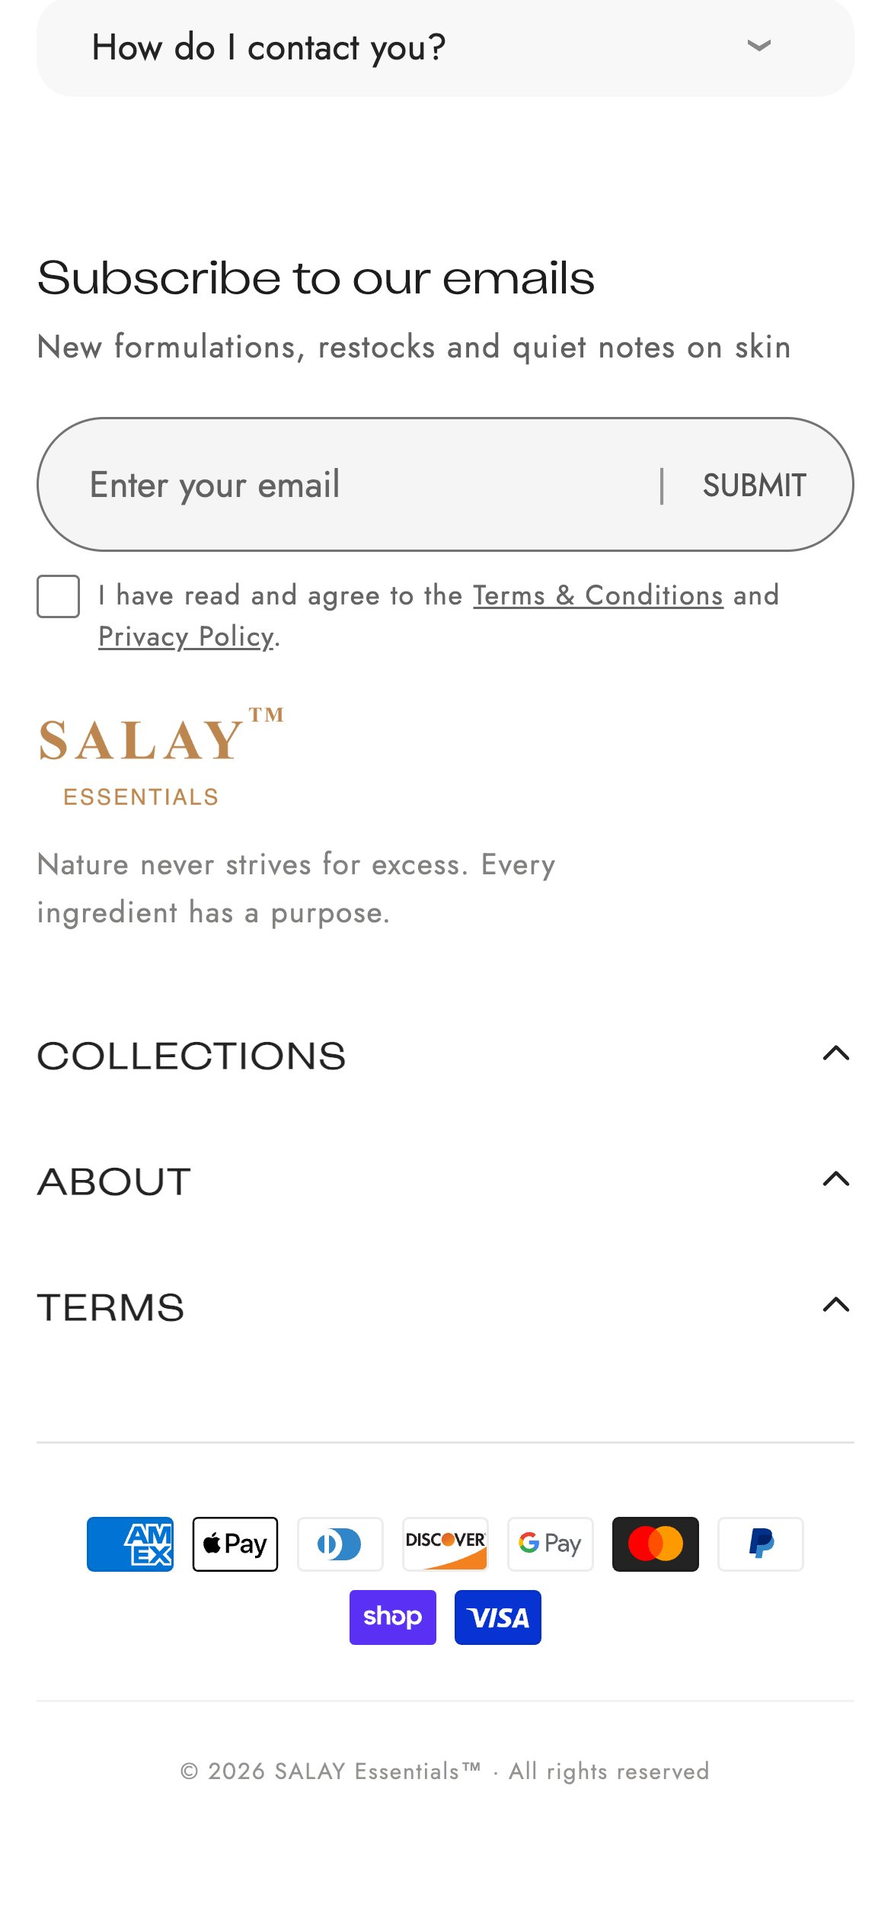
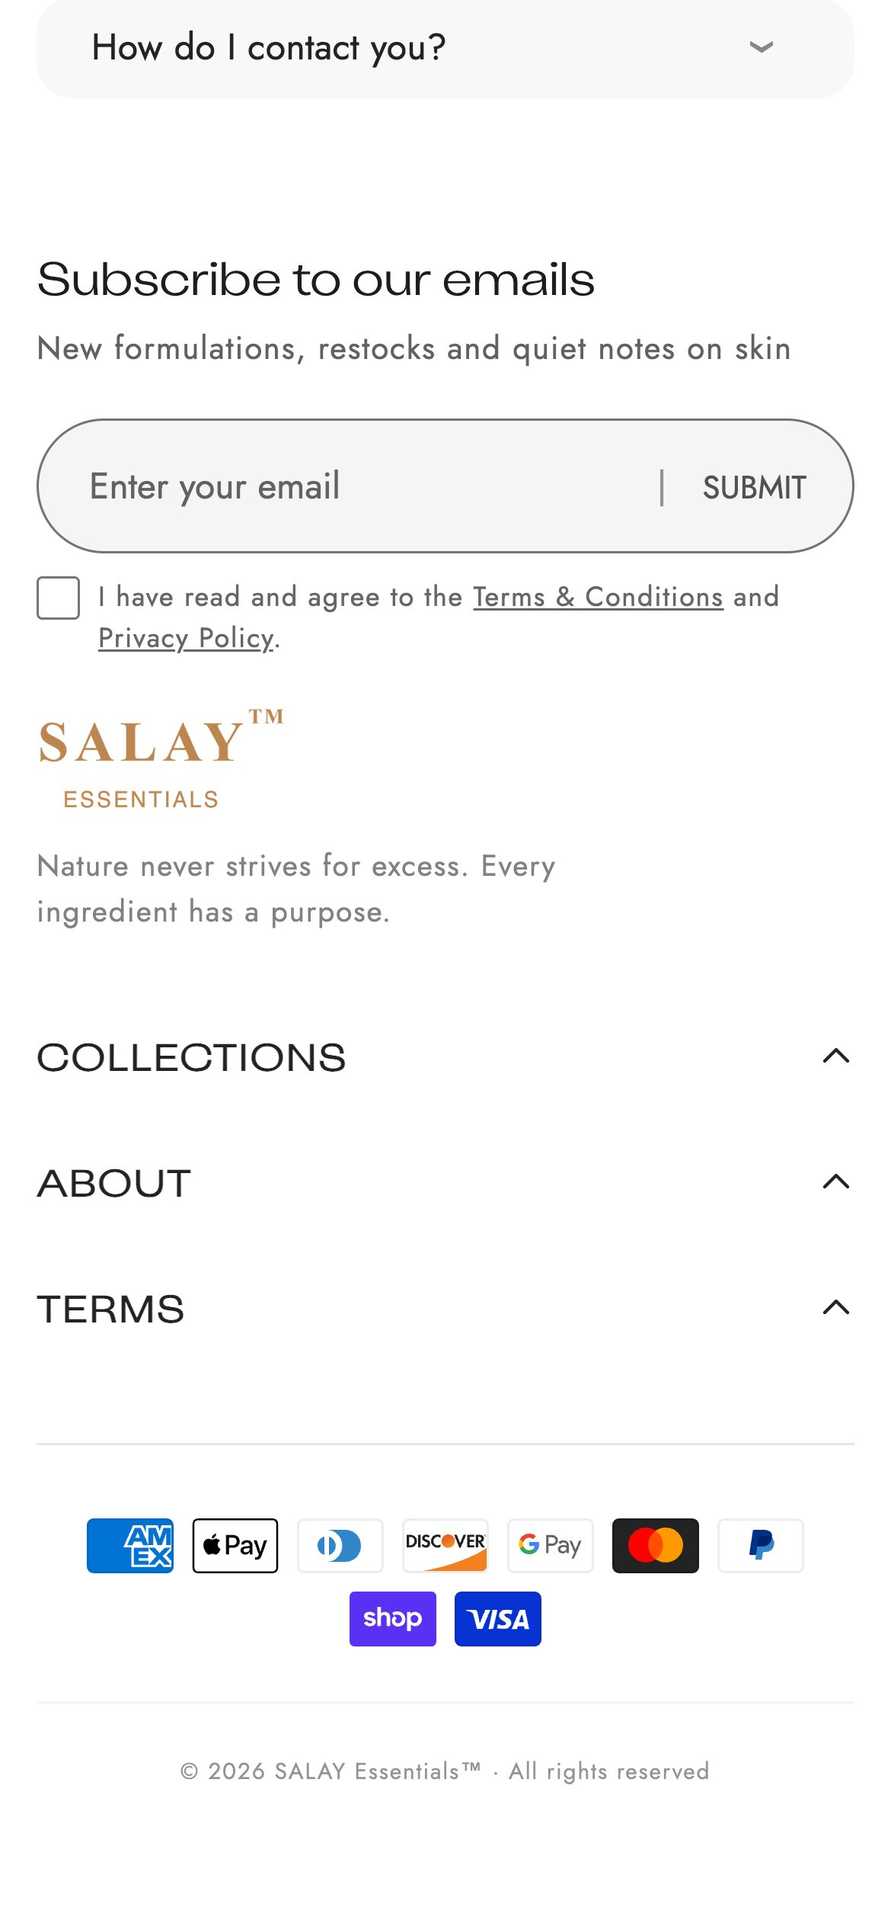
QA: own defects at $0, shipping wording, SMM links

diff --git a/index.html b/index.html
@@ -1199,11 +1199,11 @@ a.irow:hover b{text-decoration:underline}
 <div class="kpis" style="margin-top:34px"><div class="kpi"><b>5</b><span>Before launch</span></div><div class="kpi"><b>5</b><span>Next</span></div><div class="kpi"><b>9</b><span>Small fixes</span></div><div class="kpi"><b>2</b><span>Separate offers</span></div></div> </section>
 <section class="slide divider" id="critical"> <img class="silk" src="img/silk.png" alt=""> <span class="sev crit">Before launch</span> <h2>5 changes to make before the password comes off</h2> </section>
 <section class="slide" id="p-ship"> <img class="silk sm" src="img/silk.png" alt="">
-<div class="shead"><span class="num">01</span><h2><span class="sev crit">Before launch</span>Free shipping starts at $200, while one bottle costs $22–34</h2></div>
+<div class="shead"><span class="num">01</span><h2><span class="sev crit">Before launch</span>Free shipping is set at $200, while one bottle costs $22–34</h2></div>
 <div class="pbody">
 <div class="txt t1"><div class="lbl"><span class="pill">Today</span><svg class="conn" viewBox="0 0 54 12"><path d="M0 6h50M45 1.5 50 6l-5 4.5" fill="none" stroke="#6d6d6d" stroke-width="1.5"/></svg></div><p>After adding Body Oil the cart says “Add $166.00 more for complimentary shipping”. With bottles at $22–34 and sets at $51–67.50, that is six or more bottles, so on most first orders the bar barely moves.</p><p class="fine-note">Checked on the live store behind the launch password, iPhone (390×844), 9 Oct 2026. · <a href="https://salaycare.com/products/body-oil" target="_blank" rel="noopener">open the page ↗</a></p></div>
 <div class="v1"><div><div class="phone"><div class="screen"><div class="island"></div><div class="sbar"><span>9:41</span><svg viewBox="0 0 24 11"><rect x=".5" y=".5" width="20" height="10" rx="3" fill="none" stroke="#111"/><rect x="2" y="2" width="16" height="7" rx="1.5" fill="#111"/><rect x="21.5" y="3.5" width="1.8" height="4" rx=".9" fill="#111"/></svg></div><div class="view"><img class="shot" src="img/now-ship-m.jpg" alt=""></div><div class="url"><span>salaycare.com</span></div></div></div><div class="cap">Today — $166 to go after one bottle</div></div></div>
-<div class="txt t2"><div class="lbl"><span class="pill">We propose</span><svg class="conn" viewBox="0 0 54 12"><path d="M0 6h50M45 1.5 50 6l-5 4.5" fill="none" stroke="#6d6d6d" stroke-width="1.5"/></svg></div><p>Lower the free-shipping line to an amount a first order can reach — for example $70, any set plus one oil — and use the same figure in the cart bar, the announcement and the product page.</p><p>On the right, the same cart with a $70 line.</p></div>
+<div class="txt t2"><div class="lbl"><span class="pill">We propose</span><svg class="conn" viewBox="0 0 54 12"><path d="M0 6h50M45 1.5 50 6l-5 4.5" fill="none" stroke="#6d6d6d" stroke-width="1.5"/></svg></div><p>You set the $200 line before prices changed; we suggest testing a lower one a first order can reach — for example $70, any set plus one oil — in the cart bar, the announcement and the product page.</p><p>On the right, the same cart with a $70 line.</p></div>
 <div class="v2"><div><div class="phone"><div class="screen"><div class="island"></div><div class="sbar"><span>9:41</span><svg viewBox="0 0 24 11"><rect x=".5" y=".5" width="20" height="10" rx="3" fill="none" stroke="#111"/><rect x="2" y="2" width="16" height="7" rx="1.5" fill="#111"/><rect x="21.5" y="3.5" width="1.8" height="4" rx=".9" fill="#111"/></svg></div><div class="view"><img class="shot" src="img/fix-ship-m.jpg" alt=""></div><div class="url"><span>salaycare.com</span></div></div></div><div class="cap">The same cart with a $70 line</div></div></div>
 <div class="cardcol"><div class="benefit-top"><span class="pill">Why it pays</span><span class="arrow"><svg width="14" height="16" viewBox="0 0 14 16"><path d="M7 1v13M1.5 8.5 7 14l5.5-5.5" fill="none" stroke="#444" stroke-width="1.6"/></svg></span></div>
 <div class="card"><p>A goal the shopper can reach is a reason to add a second bottle instead of leaving at the shipping cost.</p><div class="stats"><div><b>$166</b><span>still needed after one $34 bottle</span></div><div><b>$25–100</b><span>free-shipping line at 8 of 10 competitors checked</span></div></div><p class="comp">Like at <a href="https://bushbalm.com/products/ingrown-hair-oil" target="_blank" rel="noopener">Bushbalm ↗</a> — free shipping from $50 with a progress bar in the cart; for SALAY a line near $70 matches one set plus one oil.</p></div><div class="ptag"><span>Price</span><b>$40</b><em>2 h &#183; $20/h</em></div></div>
@@ -1345,20 +1345,20 @@ a.irow:hover b{text-decoration:underline}
 <div class="pbody">
 <div class="txt t1"><div class="lbl"><span class="pill">Today</span><svg class="conn" viewBox="0 0 54 12"><path d="M0 6h50M45 1.5 50 6l-5 4.5" fill="none" stroke="#6d6d6d" stroke-width="1.5"/></svg></div><p>Skin Barrier Trio and Hydration Trio both hold Hyaluronic Hydration Serum, Barrier Repair Serum and Overnight Face Oil, both at $52.50. They sit next to each other on Gift Sets with different names.</p><p class="fine-note">Checked on the live store behind the launch password, iPhone (390×844), 9 Oct 2026. · <a href="https://salaycare.com/collections/gift-sets" target="_blank" rel="noopener">open the page ↗</a></p></div>
 <div class="v1"><div><div class="phone"><div class="screen"><div class="island"></div><div class="sbar"><span>9:41</span><svg viewBox="0 0 24 11"><rect x=".5" y=".5" width="20" height="10" rx="3" fill="none" stroke="#111"/><rect x="2" y="2" width="16" height="7" rx="1.5" fill="#111"/><rect x="21.5" y="3.5" width="1.8" height="4" rx=".9" fill="#111"/></svg></div><div class="view"><img class="shot" src="img/now-dup-m.jpg" alt=""></div><div class="url"><span>salaycare.com</span></div></div></div><div class="cap">Today — Skin Barrier and Hydration Trio</div></div></div>
-<div class="txt t2"><div class="lbl"><span class="pill">We propose</span><svg class="conn" viewBox="0 0 54 12"><path d="M0 6h50M45 1.5 50 6l-5 4.5" fill="none" stroke="#6d6d6d" stroke-width="1.5"/></svg></div><p>Keep one of the two, or change one bottle in the second set — we agree with you which — and update the page.</p><p>On the right, the same grid with one of them.</p></div>
+<div class="txt t2"><div class="lbl"><span class="pill">We propose</span><svg class="conn" viewBox="0 0 54 12"><path d="M0 6h50M45 1.5 50 6l-5 4.5" fill="none" stroke="#6d6d6d" stroke-width="1.5"/></svg></div><p>Keep one of the two, or change one bottle in the second set — we agree with you which — and update the page. We fix this as part of the pre-launch check.</p><p>On the right, the same grid with one of them.</p></div>
 <div class="v2"><div><div class="phone"><div class="screen"><div class="island"></div><div class="sbar"><span>9:41</span><svg viewBox="0 0 24 11"><rect x=".5" y=".5" width="20" height="10" rx="3" fill="none" stroke="#111"/><rect x="2" y="2" width="16" height="7" rx="1.5" fill="#111"/><rect x="21.5" y="3.5" width="1.8" height="4" rx=".9" fill="#111"/></svg></div><div class="view"><img class="shot" src="img/fix-dup-m.jpg" alt=""></div><div class="url"><span>salaycare.com</span></div></div></div><div class="cap">The same grid without the duplicate</div></div></div>
 <div class="cardcol"><div class="benefit-top"><span class="pill">Why it pays</span><span class="arrow"><svg width="14" height="16" viewBox="0 0 14 16"><path d="M7 1v13M1.5 8.5 7 14l5.5-5.5" fill="none" stroke="#444" stroke-width="1.6"/></svg></span></div>
-<div class="card"><p>Shoppers who notice the same contents under two names stop trusting the rest of the comparison.</p><div class="stats"><div><b>2</b><span>sets with the same 3 bottles</span></div><div><b>$52.50</b><span>price of each</span></div></div></div><div class="ptag"><span>Price</span><b>$10</b><em>0.5 h &#183; $20/h</em></div></div>
+<div class="card"><p>Shoppers who notice the same contents under two names stop trusting the rest of the comparison.</p><div class="stats"><div><b>2</b><span>sets with the same 3 bottles</span></div><div><b>$52.50</b><span>price of each</span></div></div></div><div class="ptag"><span>Price</span><b>$0</b><em>included in pre-launch QA</em></div></div>
 </div></section>
 <section class="slide" id="p-cats"> <img class="silk sm" src="img/silk.png" alt="">
 <div class="shead"><span class="num">16</span><h2><span class="sev low">Small fix</span>One category is called “Shaving & Ingrown Hair Oil”</h2></div>
 <div class="pbody">
 <div class="txt t1"><div class="lbl"><span class="pill">Today</span><svg class="conn" viewBox="0 0 54 12"><path d="M0 6h50M45 1.5 50 6l-5 4.5" fill="none" stroke="#6d6d6d" stroke-width="1.5"/></svg></div><p>In the menu, the footer and the page heading the category reads “Shaving & Ingrown Hair Oil”, while the home page tile says “Shaving & Ingrown Hair”. The extra “Oil” makes it read like a single product.</p><p class="fine-note">Checked on the live store behind the launch password, iPhone (390×844), 9 Oct 2026. · <a href="https://salaycare.com/collections/shaving-grooming" target="_blank" rel="noopener">open the page ↗</a></p></div>
 <div class="v1"><div><div class="phone"><div class="screen"><div class="island"></div><div class="sbar"><span>9:41</span><svg viewBox="0 0 24 11"><rect x=".5" y=".5" width="20" height="10" rx="3" fill="none" stroke="#111"/><rect x="2" y="2" width="16" height="7" rx="1.5" fill="#111"/><rect x="21.5" y="3.5" width="1.8" height="4" rx=".9" fill="#111"/></svg></div><div class="view"><img class="shot" src="img/now-cats-m.jpg" alt=""></div><div class="url"><span>salaycare.com</span></div></div></div><div class="cap">Today — “… Hair Oil” in the menu</div></div></div>
-<div class="txt t2"><div class="lbl"><span class="pill">We propose</span><svg class="conn" viewBox="0 0 54 12"><path d="M0 6h50M45 1.5 50 6l-5 4.5" fill="none" stroke="#6d6d6d" stroke-width="1.5"/></svg></div><p>Rename the category to “Shaving & Ingrown Hair” everywhere, as on the home page tile.</p><p>On the right, the same menu with the new name.</p></div>
+<div class="txt t2"><div class="lbl"><span class="pill">We propose</span><svg class="conn" viewBox="0 0 54 12"><path d="M0 6h50M45 1.5 50 6l-5 4.5" fill="none" stroke="#6d6d6d" stroke-width="1.5"/></svg></div><p>Rename the category to “Shaving & Ingrown Hair” everywhere, as on the home page tile. We fix this as part of the pre-launch check.</p><p>On the right, the same menu with the new name.</p></div>
 <div class="v2"><div><div class="phone"><div class="screen"><div class="island"></div><div class="sbar"><span>9:41</span><svg viewBox="0 0 24 11"><rect x=".5" y=".5" width="20" height="10" rx="3" fill="none" stroke="#111"/><rect x="2" y="2" width="16" height="7" rx="1.5" fill="#111"/><rect x="21.5" y="3.5" width="1.8" height="4" rx=".9" fill="#111"/></svg></div><div class="view"><img class="shot" src="img/fix-cats-m.jpg" alt=""></div><div class="url"><span>salaycare.com</span></div></div></div><div class="cap">The same menu, consistent name</div></div></div>
 <div class="cardcol"><div class="benefit-top"><span class="pill">Why it pays</span><span class="arrow"><svg width="14" height="16" viewBox="0 0 14 16"><path d="M7 1v13M1.5 8.5 7 14l5.5-5.5" fill="none" stroke="#444" stroke-width="1.6"/></svg></span></div>
-<div class="card"><p>One name in every place keeps the menu easy to scan.</p><div class="stats"><div><b>3</b><span>places with “… Hair Oil”</span></div><div><b>1</b><span>home tile with the right name</span></div></div></div><div class="ptag"><span>Price</span><b>$10</b><em>0.5 h &#183; $20/h</em></div></div>
+<div class="card"><p>One name in every place keeps the menu easy to scan.</p><div class="stats"><div><b>3</b><span>places with “… Hair Oil”</span></div><div><b>1</b><span>home tile with the right name</span></div></div></div><div class="ptag"><span>Price</span><b>$0</b><em>included in pre-launch QA</em></div></div>
 </div></section>
 <section class="slide" id="p-sale"> <img class="silk sm" src="img/silk.png" alt="">
 <div class="shead"><span class="num">17</span><h2><span class="sev low">Small fix</span>“Sale” and “Gift Sets” in the menu open the same 15 products</h2></div>
@@ -1385,10 +1385,10 @@ a.irow:hover b{text-decoration:underline}
 <div class="pbody">
 <div class="txt t1"><div class="lbl"><span class="pill">Today</span><svg class="conn" viewBox="0 0 54 12"><path d="M0 6h50M45 1.5 50 6l-5 4.5" fill="none" stroke="#6d6d6d" stroke-width="1.5"/></svg></div><p>On a phone the footer groups — Collections, About, Terms — are closed but show an upward arrow; opened, the arrow points down. The FAQ just above uses the usual direction.</p><p class="fine-note">Checked on the live store behind the launch password, iPhone (390×844), 9 Oct 2026. · <a href="https://salaycare.com/" target="_blank" rel="noopener">open the page ↗</a></p></div>
 <div class="v1"><div><div class="phone"><div class="screen"><div class="island"></div><div class="sbar"><span>9:41</span><svg viewBox="0 0 24 11"><rect x=".5" y=".5" width="20" height="10" rx="3" fill="none" stroke="#111"/><rect x="2" y="2" width="16" height="7" rx="1.5" fill="#111"/><rect x="21.5" y="3.5" width="1.8" height="4" rx=".9" fill="#111"/></svg></div><div class="view"><img class="shot" src="img/now-chev-m.jpg" alt=""></div><div class="url"><span>salaycare.com</span></div></div></div><div class="cap">Today — closed, arrows up</div></div></div>
-<div class="txt t2"><div class="lbl"><span class="pill">We propose</span><svg class="conn" viewBox="0 0 54 12"><path d="M0 6h50M45 1.5 50 6l-5 4.5" fill="none" stroke="#6d6d6d" stroke-width="1.5"/></svg></div><p>Flip the footer arrows so closed groups point down, like the FAQ.</p><p>On the right, the same footer with the arrows flipped.</p></div>
+<div class="txt t2"><div class="lbl"><span class="pill">We propose</span><svg class="conn" viewBox="0 0 54 12"><path d="M0 6h50M45 1.5 50 6l-5 4.5" fill="none" stroke="#6d6d6d" stroke-width="1.5"/></svg></div><p>Flip the footer arrows so closed groups point down, like the FAQ. We fix this as part of the pre-launch check.</p><p>On the right, the same footer with the arrows flipped.</p></div>
 <div class="v2"><div><div class="phone"><div class="screen"><div class="island"></div><div class="sbar"><span>9:41</span><svg viewBox="0 0 24 11"><rect x=".5" y=".5" width="20" height="10" rx="3" fill="none" stroke="#111"/><rect x="2" y="2" width="16" height="7" rx="1.5" fill="#111"/><rect x="21.5" y="3.5" width="1.8" height="4" rx=".9" fill="#111"/></svg></div><div class="view"><img class="shot" src="img/fix-chev-m.jpg" alt=""></div><div class="url"><span>salaycare.com</span></div></div></div><div class="cap">The same footer, arrows down</div></div></div>
 <div class="cardcol"><div class="benefit-top"><span class="pill">Why it pays</span><span class="arrow"><svg width="14" height="16" viewBox="0 0 14 16"><path d="M7 1v13M1.5 8.5 7 14l5.5-5.5" fill="none" stroke="#444" stroke-width="1.6"/></svg></span></div>
-<div class="card"><p>Shoppers looking for shipping or returns see at once that the groups open.</p><div class="stats"><div><b>3</b><span>footer groups with reversed arrows</span></div><div><b>6</b><span>FAQ items with the usual arrow</span></div></div></div><div class="ptag"><span>Price</span><b>$10</b><em>0.5 h &#183; $20/h</em></div></div>
+<div class="card"><p>Shoppers looking for shipping or returns see at once that the groups open.</p><div class="stats"><div><b>3</b><span>footer groups with reversed arrows</span></div><div><b>6</b><span>FAQ items with the usual arrow</span></div></div></div><div class="ptag"><span>Price</span><b>$0</b><em>included in pre-launch QA</em></div></div>
 </div></section>
 <section class="slide divider" id="extra"> <img class="silk" src="img/silk.png" alt=""> <span class="sev extra">Separately</span> <h2>2 separate offers</h2> </section>
 <section class="slide" id="x-blog"> <img class="silk sm" src="img/silk.png" alt="">
@@ -1406,13 +1406,13 @@ a.irow:hover b{text-decoration:underline}
 <div class="pbody">
 <div class="txt t1"><div class="lbl"><span class="pill">Today</span><svg class="conn" viewBox="0 0 54 12"><path d="M0 6h50M45 1.5 50 6l-5 4.5" fill="none" stroke="#6d6d6d" stroke-width="1.5"/></svg></div><p>The footer has the sign-up form, the menu and payment icons, but no link to Instagram or TikTok: after the rebrand SALAY has no accounts on the site yet.</p><p class="fine-note">Checked on the live store behind the launch password, iPhone (390×844), 9 Oct 2026. · <a href="https://salaycare.com/" target="_blank" rel="noopener">open the page ↗</a></p></div>
 <div class="v1"><div><div class="phone"><div class="screen"><div class="island"></div><div class="sbar"><span>9:41</span><svg viewBox="0 0 24 11"><rect x=".5" y=".5" width="20" height="10" rx="3" fill="none" stroke="#111"/><rect x="2" y="2" width="16" height="7" rx="1.5" fill="#111"/><rect x="21.5" y="3.5" width="1.8" height="4" rx=".9" fill="#111"/></svg></div><div class="view"><img class="shot" src="img/now-footer-m.jpg" alt=""></div><div class="url"><span>salaycare.com</span></div></div></div><div class="cap">Today — the footer, no social links</div></div></div>
-<div class="txt t2"><div class="lbl"><span class="pill">We propose</span><svg class="conn" viewBox="0 0 54 12"><path d="M0 6h50M45 1.5 50 6l-5 4.5" fill="none" stroke="#6d6d6d" stroke-width="1.5"/></svg></div><p>We run Instagram for SALAY Essentials: the profile, a content plan, posts and Reels built on your bottles, sets and rituals, and the link back to the store in the footer.</p><p>On the right, an illustration of the footer once the account is live.</p></div>
-<div class="v2"><div><div class="phone"><div class="screen"><div class="island"></div><div class="sbar"><span>9:41</span><svg viewBox="0 0 24 11"><rect x=".5" y=".5" width="20" height="10" rx="3" fill="none" stroke="#111"/><rect x="2" y="2" width="16" height="7" rx="1.5" fill="#111"/><rect x="21.5" y="3.5" width="1.8" height="4" rx=".9" fill="#111"/></svg></div><div class="view"><img class="shot" src="img/fix-smm-m.jpg" alt=""></div><div class="url"><span>salaycare.com</span></div></div></div><div class="cap">Illustration — the footer with Instagram</div></div></div>
+<div class="txt t2"><div class="lbl"><span class="pill">We propose</span><svg class="conn" viewBox="0 0 54 12"><path d="M0 6h50M45 1.5 50 6l-5 4.5" fill="none" stroke="#6d6d6d" stroke-width="1.5"/></svg></div><p>We run Instagram for SALAY Essentials: the profile, a content plan, posts and Reels built on your bottles, sets and rituals, with links from the store's footer.</p><p>On the right, an illustration of the footer with the account links.</p></div>
+<div class="v2"><div><div class="phone"><div class="screen"><div class="island"></div><div class="sbar"><span>9:41</span><svg viewBox="0 0 24 11"><rect x=".5" y=".5" width="20" height="10" rx="3" fill="none" stroke="#111"/><rect x="2" y="2" width="16" height="7" rx="1.5" fill="#111"/><rect x="21.5" y="3.5" width="1.8" height="4" rx=".9" fill="#111"/></svg></div><div class="view"><img class="shot" src="img/fix-smm-m.jpg" alt=""></div><div class="url"><span>salaycare.com</span></div></div></div><div class="cap">Illustration — the footer with social links</div></div></div>
 <div class="cardcol"><div class="benefit-top"><span class="pill">Why it pays</span><span class="arrow"><svg width="14" height="16" viewBox="0 0 14 16"><path d="M7 1v13M1.5 8.5 7 14l5.5-5.5" fill="none" stroke="#444" stroke-width="1.6"/></svg></span></div>
 <div class="card"><p>A new brand needs a place where shoppers see real textures and routines before they trust the first order.</p><div class="stats"><div><b>0</b><span>social links on the site today</span></div><div><b>$700</b><span>per month</span></div></div></div><div class="ptag"><span>Price</span><b>$700</b><em>per month</em></div></div>
 </div></section>
 <section class="slide" id="strong"> <img class="silk sm" src="img/silk.png" alt=""> <div class="shead"><h2>What already works<small>The parts we keep — and build on.</small></h2></div> <div class="good"><div class="gcard"><div class="ck">✓</div><h3>A buy button that stays</h3><p>On product pages the price and Add to cart stay pinned while scrolling — Bushbalm, Herbivore and Leven Rose don't do this.</p></div><div class="gcard"><div class="ck">✓</div><h3>A cart that suggests the next bottle</h3><p>The cart shows the shipping progress and “Complete the ritual” with one-tap Add.</p></div><div class="gcard"><div class="ck">✓</div><h3>Sets that show the saving</h3><p>15 trios at 25% off, with “Buying the set saves you $19.50” on the page.</p></div><div class="gcard"><div class="ck">✓</div><h3>Answers before the question</h3><p>How to use, key ingredients, “formulated without” and an FAQ on every product page.</p></div><div class="gcard"><div class="ck">✓</div><h3>Fast payment</h3><p>Shop Pay, PayPal and Google Pay buttons right in the cart.</p></div><div class="gcard"><div class="ck">✓</div><h3>A header that comes back</h3><p>Scroll up and search and the cart return at once.</p></div></div> </section>
-<section class="slide" id="price"> <img class="silk sm" src="img/silk.png" alt=""> <div class="shead"><h2>Pricing</h2></div> <div class="plist" style="max-width:900px;margin-top:10px"><div class="prow" style="padding:22px 0;align-items:baseline"><i></i><span style="font:700 24px/1.3 'Montserrat',sans-serif">Store improvements</span><em style="font-size:15px">46 h · $20/h · items 01–19</em><b style="font-size:28px">$920</b></div><div class="prow prop" style="padding:22px 0;align-items:baseline"><i></i><span style="font:700 24px/1.3 'Montserrat',sans-serif">Blog posting (MileDevs Blog Automation)</span><em style="font-size:15px">setup + $30 / month</em><b style="font-size:28px">$750</b></div><div class="prow prop" style="padding:22px 0;align-items:baseline"><i></i><span style="font:700 24px/1.3 'Montserrat',sans-serif">SMM for SALAY Essentials</span><em style="font-size:15px">per month</em><b style="font-size:28px">$700</b></div></div> </section>
+<section class="slide" id="price"> <img class="silk sm" src="img/silk.png" alt=""> <div class="shead"><h2>Pricing</h2></div> <div class="plist" style="max-width:900px;margin-top:10px"><div class="prow" style="padding:22px 0;align-items:baseline"><i></i><span style="font:700 24px/1.3 'Montserrat',sans-serif">Store improvements</span><em style="font-size:15px">44.5 h · $20/h · 16 items</em><b style="font-size:28px">$890</b></div><div class="prow" style="padding:22px 0;align-items:baseline"><i></i><span style="font:700 24px/1.3 'Montserrat',sans-serif">Pre-launch fixes</span><em style="font-size:15px">items 15, 16, 19 · included in pre-launch QA</em><b style="font-size:28px">$0</b></div><div class="prow prop" style="padding:22px 0;align-items:baseline"><i></i><span style="font:700 24px/1.3 'Montserrat',sans-serif">Blog posting (MileDevs Blog Automation)</span><em style="font-size:15px">setup + $30 / month</em><b style="font-size:28px">$750</b></div><div class="prow prop" style="padding:22px 0;align-items:baseline"><i></i><span style="font:700 24px/1.3 'Montserrat',sans-serif">SMM for SALAY Essentials</span><em style="font-size:15px">per month</em><b style="font-size:28px">$700</b></div></div> </section>
 <section class="slide end"> <img class="silk sm" src="img/silk.png" alt=""> <img src="img/logo-md.png" alt="MileDevs"> <h2>Next step</h2> <p>We agree on the five before-launch changes and finish them before the password comes off; the rest follow in the first weeks after launch.</p> <p class="fine">Every figure was measured on salaycare.com (behind the launch password) on 9 October 2026, on an iPhone (390×844). The “We propose” screens are your own pages with one element changed; the SMM screen is an illustration.</p> </section>
 </body>
 </html>
